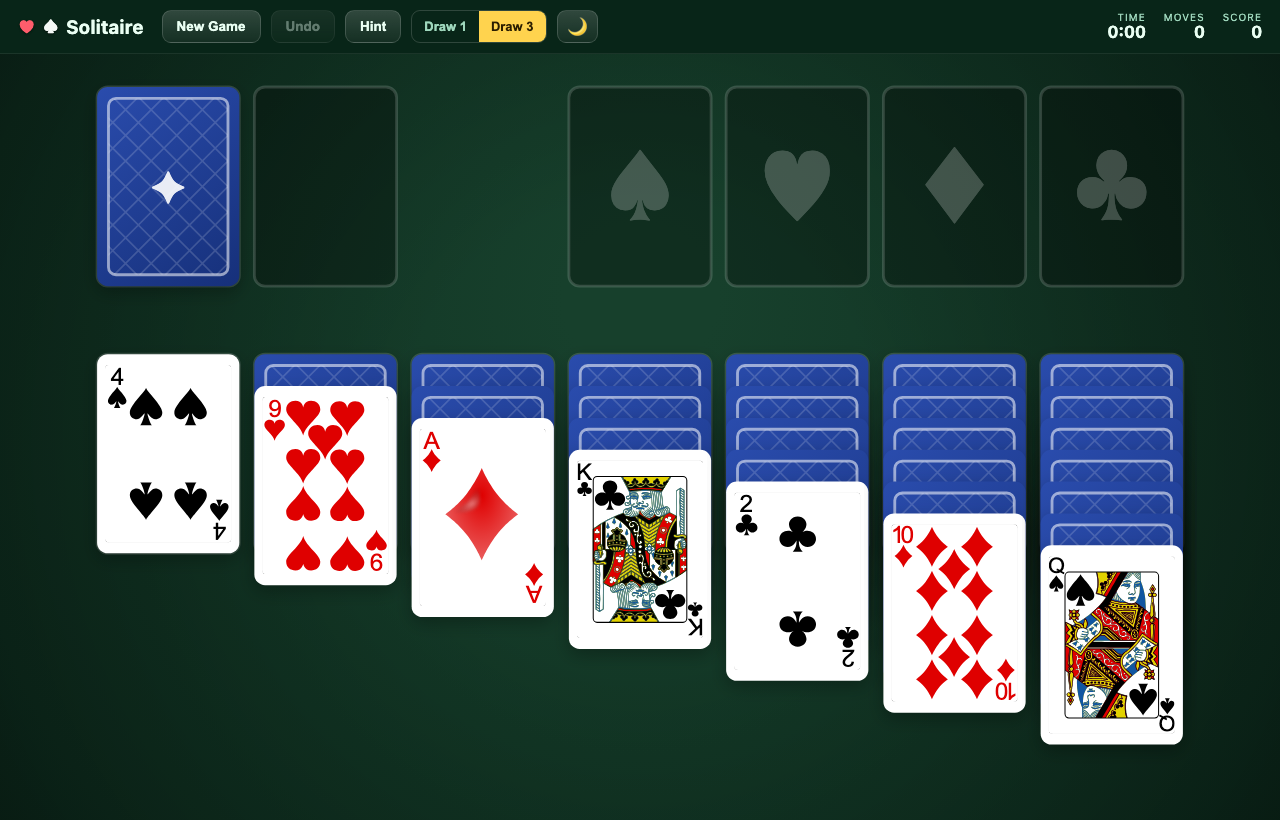
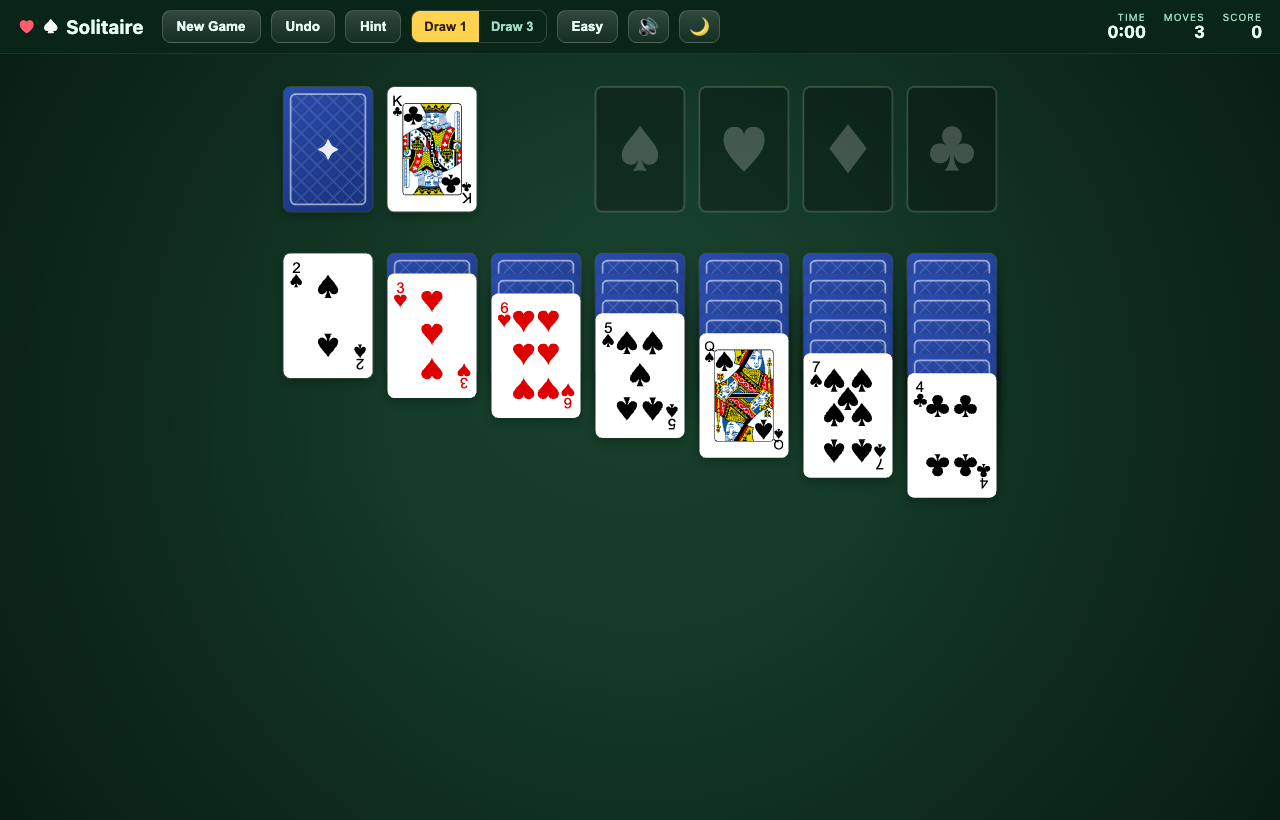
Document the spare pile in the UI and README; refresh screenshots

diff --git a/index.html b/index.html
@@ -22,7 +22,7 @@
             <button class="seg-btn is-active" data-draw="1">Draw 1</button>
             <button class="seg-btn" data-draw="3">Draw 3</button>
           </div>
-          <button id="btn-easy" class="btn" title="Easy mode: empty columns accept any card" aria-pressed="false">Easy</button>
+          <button id="btn-easy" class="btn" title="Easy mode: empty columns accept any card; park a stack on the ✦ pile" aria-pressed="false">Easy</button>
           <button id="btn-sound" class="btn icon-btn" title="Mute sound effects" aria-label="Toggle sound">🔊</button>
           <button id="btn-theme" class="btn icon-btn" title="Toggle light / dark theme" aria-label="Toggle theme">🌙</button>
         </div>
@@ -38,7 +38,7 @@
       <button id="start-btn" type="button">
         <span class="start-pips"><span class="pip red">&#9829;</span><span class="pip">&#9824;</span></span>
         <span class="start-title">Click to play</span>
-        <span class="start-tip"><strong>Easy mode</strong> lets any card sit on an empty column — not just Kings. Toggle it anytime with the <strong>Easy</strong> button.</span>
+        <span class="start-tip"><strong>Easy mode</strong> lets any card sit on an empty column — not just Kings — and adds a ✦ <strong>spare pile</strong> where you can park a stack to escape a stalemate (−50 points). Toggle it anytime with the <strong>Easy</strong> button.</span>
       </button>
       <button id="start-mute" class="btn icon-btn" type="button" title="Mute sound effects" aria-label="Toggle sound">🔊</button>
     </div>

diff --git a/README.md b/README.md
@@ -26,6 +26,9 @@ with smooth, physics-flavoured animations throughout. Zero runtime dependencies.
   auto-complete sweep, and a classic bouncing-card **win celebration**.
 - 🃏 **Full Klondike rules** — Draw 1 / Draw 3 toggle, multi-card run dragging,
   waste recycling, undo history, hints, scoring, move counter and timer.
+- 🆘 **Easy mode with a spare pile** — a friendlier ruleset: empty columns
+  accept any card (not just Kings), and a dedicated ✦ **spare pile** lets you
+  park one stack to break a stalemate, at a 50-point cost.
 - 🌗 **Light & dark themes** — a toolbar toggle switches the felt and chrome
   between a bright table and a deep, low-light one; your choice is remembered.
 - 🖱 **Mouse & touch** — drag-and-drop, click-to-draw, and double-click /
@@ -49,6 +52,22 @@ and toolbar all adapt, and the preference is saved to `localStorage` (you can
 also deep-link a theme with `?theme=light` or `?theme=dark`).
 
 ![Light theme](screenshots/gameplay-light.png)
+
+## Easy mode & the spare pile
+
+Stuck? Toggle **Easy** in the toolbar for a friendlier ruleset:
+
+- **Empty columns accept any card**, not just Kings.
+- A **✦ spare pile** appears as an extra column on the right of the board.
+  When the game stalls, drag any card or run onto it to park it — the card
+  underneath is revealed and play can continue. Parking costs **50 points**,
+  and only works while the pile is empty; the parked run can be moved back
+  out at any time, in whole or in part, following the usual tableau rules.
+
+The spare pile sticks around until it's emptied, even if you switch easy mode
+off with cards still parked.
+
+![Easy mode with the spare pile](screenshots/spare-pile.png)
 
 ## Win celebration
 
@@ -84,6 +103,7 @@ The goal is to build all four foundations up from Ace to King, one per suit.
 | **Draw from stock** | Click the stock pile (top-left). Toggle **Draw 1 / Draw 3** in the toolbar. When the stock is empty, click it again to recycle the waste. |
 | **Move a card / run** | Drag a card — or a valid descending, alternating-colour run — between tableau columns. Empty columns accept a King. |
 | **Send to a foundation** | Drag an Ace (or the next card in sequence) onto a foundation, or **double-click** (double-tap on touch) a card to auto-send it. |
+| **Park a stack (Easy mode)** | Toggle **Easy** in the toolbar, then drag a card or run onto the ✦ spare pile on the right to set it aside and reveal the card underneath (−50 points; the pile must be empty). |
 | **Undo** | The **Undo** button, or `Ctrl/Cmd + Z`. |
 | **Hint** | The **Hint** button (or `H`) pulses a useful move. |
 | **New game** | The **New Game** button, or `N`. |
